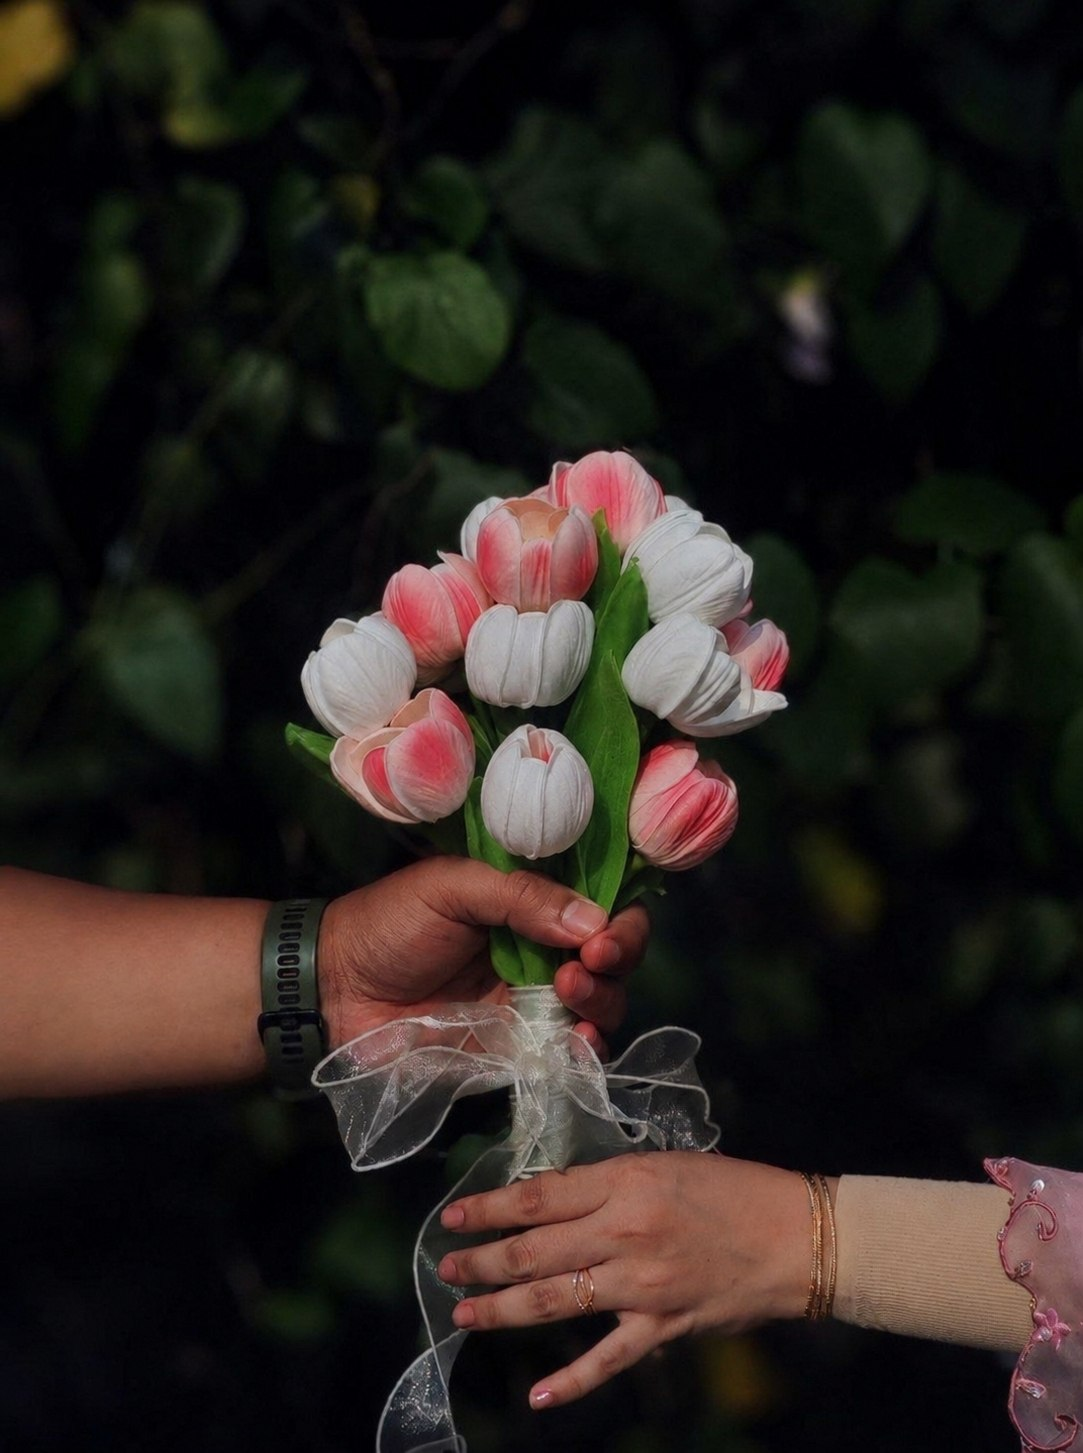
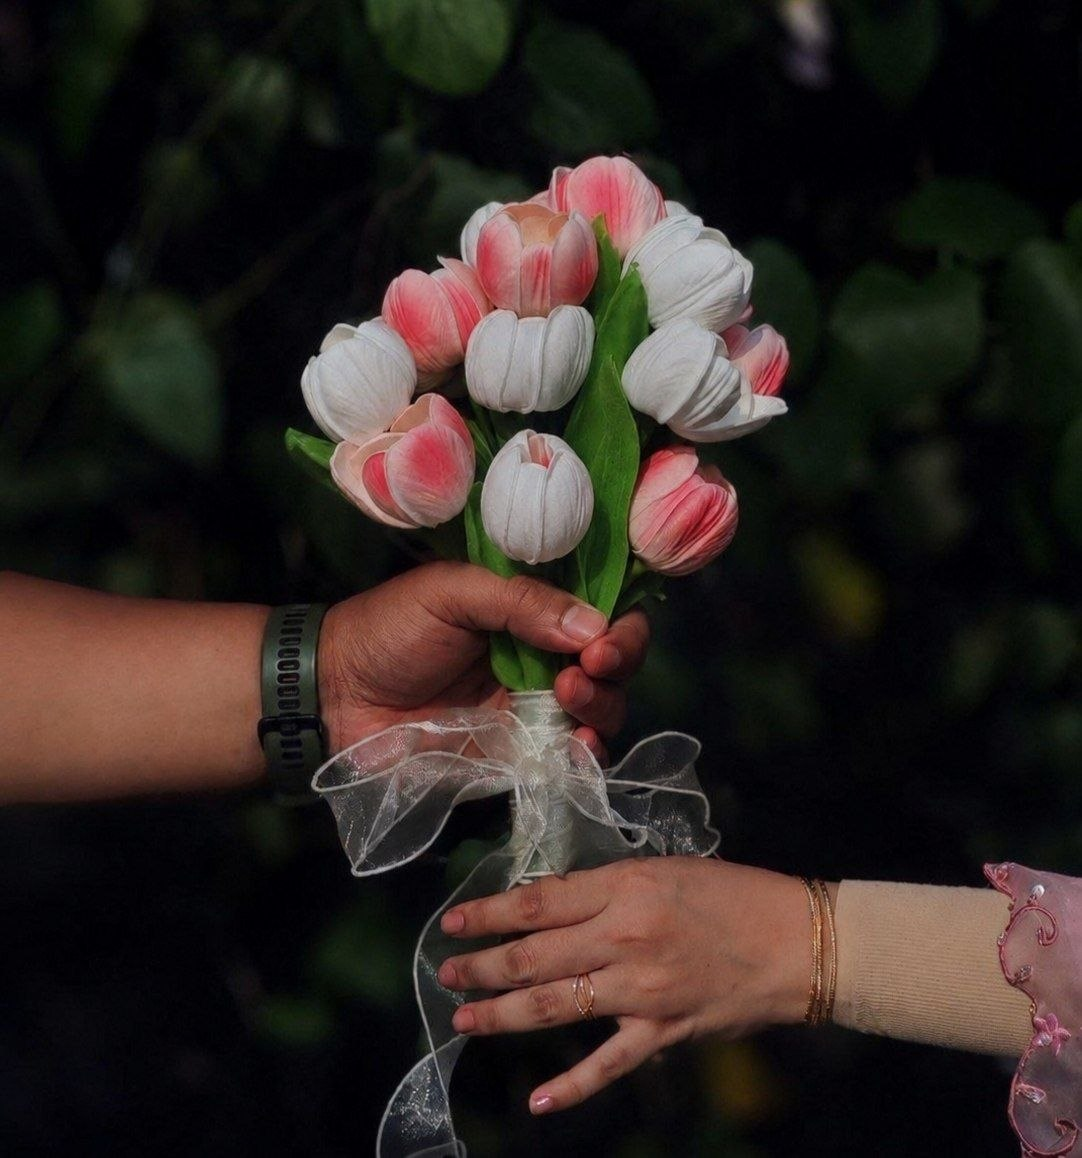
Update hero image and adjust hero size

diff --git a/style.css b/style.css
@@ -177,9 +177,9 @@ h2{
 
 .hero-photo{
 
-    width:350px;
+    width:340px;
 
-    height:350px;
+    height:340px;
 
     border-radius:50%;
 
